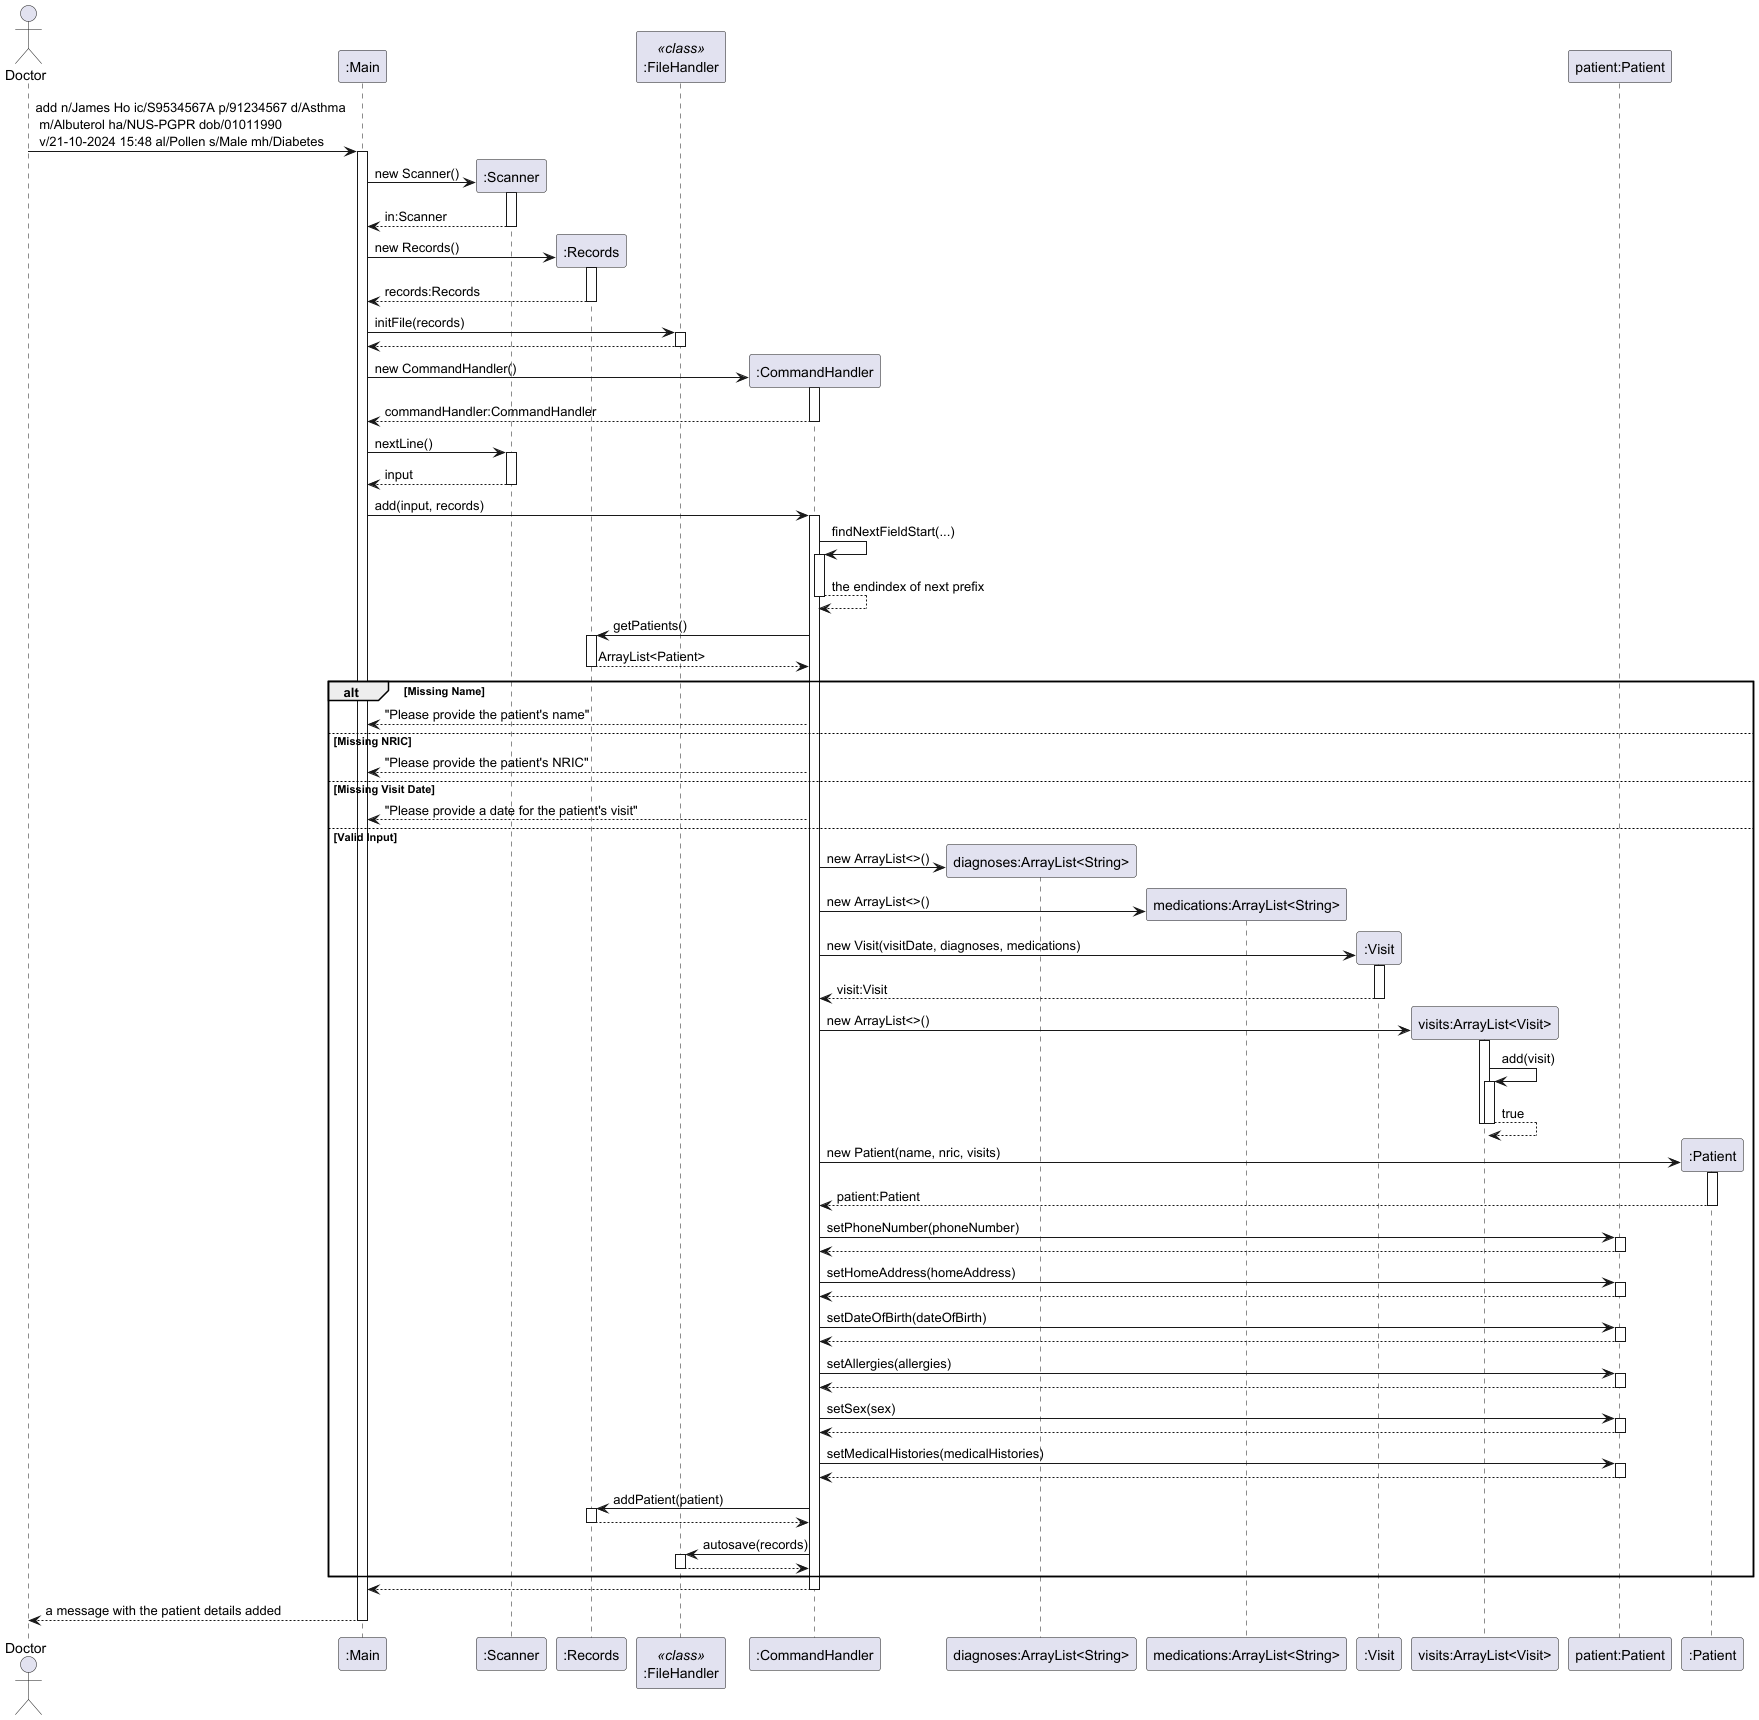
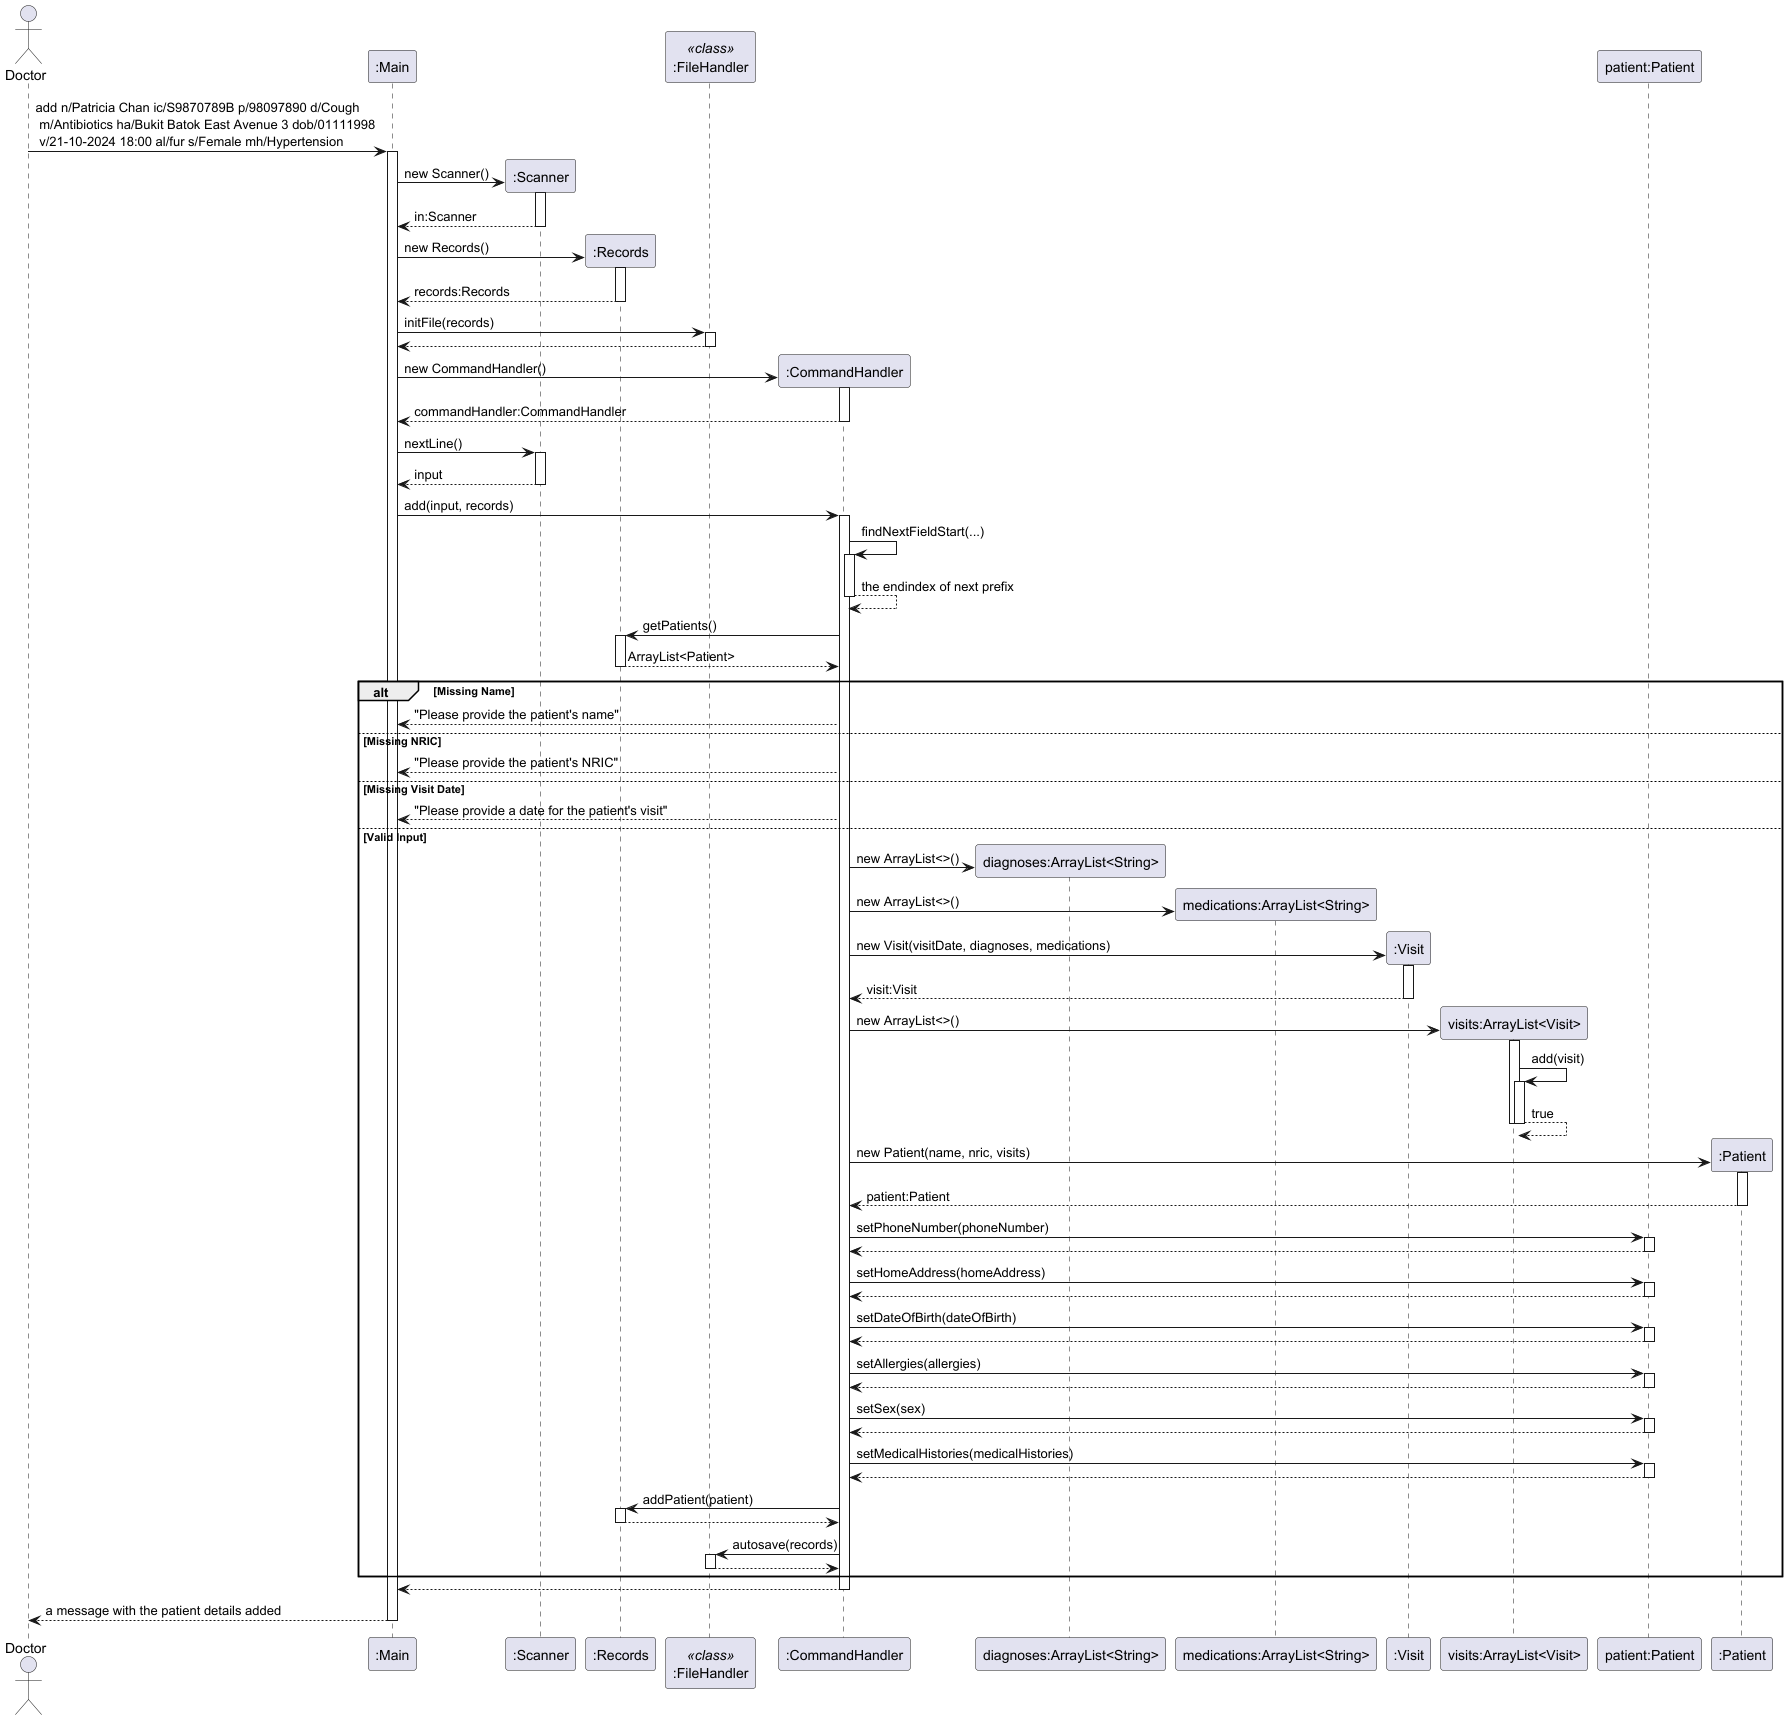
1. Fix some important Typos
2. Aligned my sequence diagram command to be the same as Yitao's object diagram command, for consistency

3. Added Table of Contents

diff --git a/docs/DeveloperGuide.md b/docs/DeveloperGuide.md
@@ -1,5 +1,29 @@
 # BookBob Developer Guide
 
+## Table of Contents
+1. [Acknowledgements](#acknowledgements)
+2. [Product Scope](#product-scope)
+    - [Target User Profile](#target-user-profile)
+    - [Value Proposition](#value-proposition)
+3. [User Stories](#user-stories)
+4. [Design & Implementation](#design--implementation)
+    - [Architecture](#architecture)
+    - [Managing Patient Visits and Records](#1-managing-patient-visits-and-records)
+        - [Adding New Visits for Existing Patients](#a-adding-new-visits-for-existing-patients)
+        - [Adding New Patient to the Patient Records](#b-adding-new-patient-to-the-patient-records)
+        - [Appointment Feature](#c-appointment-feature)
+5. [Non-Functional Requirements](#non-functional-requirements)
+6. [Glossary](#glossary)
+7. [Appendix A: Instructions for Manual Testing](#appendix-a--instructions-for-manual-testing)
+    - [Command Summary Reference](#command-summary-reference)
+    - [Launch and Shutdown](#launch-and-shutdown)
+        - [Initial Launch](#initial-launch)
+        - [Shutdown](#shutdown)
+    - [Patient Record Management](#patient-record-management)
+    - [Visit Management](#visit-management)
+    - [Appointment Management](#appointment-management)
+    - [Data Persistence (Saving and Loading)](#data-persistence-saving-and-loading)
+
 ## Acknowledgements
 
 Referenced from [SE-EDU AB3 Developer Guide](https://se-education.org/addressbook-level3/DeveloperGuide.html)
@@ -84,25 +108,21 @@ records are saved using `FileHandler` to ensure they can be retrieved later.
 ![img.png](AddVisitSequenceDiagram.png)
 
 ### b. Adding New Patient to the Patient Records
-The addVisit mechanism is handled by `CommandHandler`. It begins by creating a new `Patient` obejct to store all related
+The "add" command mechanism for New Patients(first visit to clinic) is handled by `CommandHandler`. It begins by creating a new `Patient` object to store all related
 information from terminal input. A new `Visit` object is compulsory to be created with the `Patient` object. This new 
 visit is then added to the patient's `ArrayList<Visit>`. Finally, the new patient will be stored into the patient 
 records (`Records`) which will be saved using `FileHandler` to ensure they can be retrieved later.
 
-**Doctor enters the command:** `add n/Patricia Chan ic/S8971129B p/93809923 p/91234567 d/Cough m/Antibiotics ha/PGPR 
-dob/02092001 v/21-10-2024 18:00 al/fur s/Male mh/Diabetes`
+**Doctor enters the command:** `add n/Patricia Chan ic/S9870789B p/98097890 d/Cough m/Antibiotics ha/Bukit Batok East Avenue 3 
+dob/01111998 v/21-10-2024 18:00 al/fur s/Female mh/Hypertension`
 
-> The Object Diagram before the execution of addVisit command:
+> The Object Diagram before the execution of "add" command:
 ![img.png](ObejctDiagramBeforeAddPatient.png)
 
-> The Object Diagram after the execution of addVisit command:
+> The Object Diagram after the execution of "add" command:
 ![img.png](ObjectDiagramAfterAddPatient.png)
 
-> The Sequence Diagram for the execution of addVisit command:
-
-
-
-The Sequence Diagram for the execution of "add" command:
+> The Sequence Diagram for the execution of "add" command:
 ![img.png](NewPatientSequenceDiagram.png)
 
 ### c. Appointment Feature
